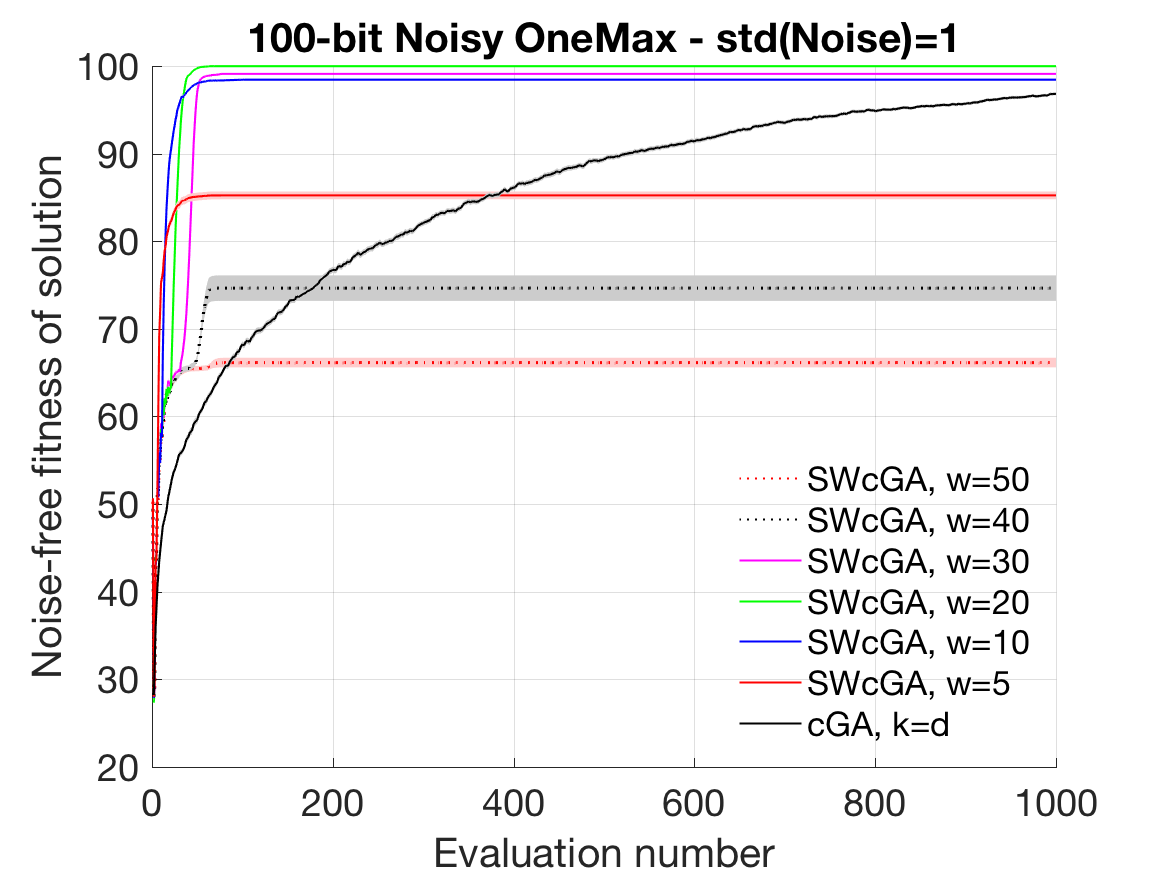
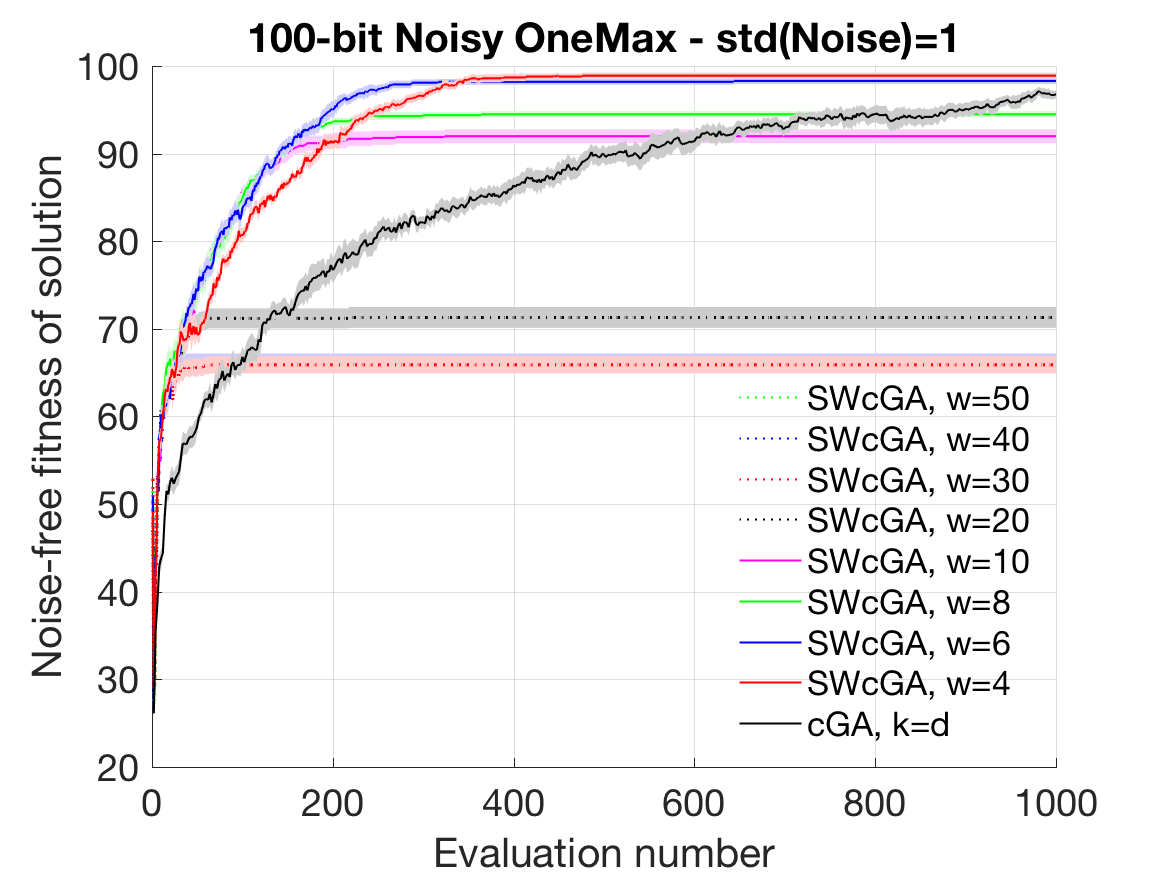
commint res

Changed region(s): [[0.1234, 0.0617, 0.9254, 0.7097], [0.6478, 0.6789, 0.8946, 0.8023], [0.1234, 0.7714, 0.1542, 0.8023]]

diff --git a/cga/CompactGA.m b/cga/CompactGA.m
@@ -15,7 +15,7 @@ while(t <= T-nParent && stop==0)
     for i=1:nParent
         for j=1:d
             if rand < p(j)
-                parents(i,j) = 1;
+                parents(i,j) = 1;                
             end
         end
         fitness(i) = noisyObjFunc(parents(i,:),1);
@@ -24,36 +24,34 @@ while(t <= T-nParent && stop==0)
 %     bestSoFar = parents(I(1),:);
     for i=1:nParent-1
         for j=i+1:nParent
-            if (isinf(fitness(i))==0 && isinf(fitness(j))==0)
-                if fitness(i) > fitness(j) % i wins
-                    for k=1:d
-                        if (parents(i,k) ~= parents(j,k))
-                            if (parents(i,k) == 1)
-                                p(k) = p(k) + 1/K;
-                            else
-                                p(k) = p(k) - 1/K;
-                            end
+            if fitness(i) > fitness(j) % i wins
+                for k=1:d
+                    if (parents(i,k) ~= parents(j,k))
+                        if (parents(i,k) == 1)
+                            p(k) = p(k) + 1/K;
+                        else
+                            p(k) = p(k) - 1/K;
                         end
                     end
-                else % j wins
-                    for k=1:d
-                        if (parents(i,k) ~= parents(j,k))
-                            if (parents(j,k) == 1)
-                                p(k) = p(k) + 1/K;
-                            else
-                                p(k) = p(k) - 1/K;
-                            end
+                end
+            else % j wins
+                for k=1:d
+                    if (parents(i,k) ~= parents(j,k))
+                        if (parents(j,k) == 1)
+                            p(k) = p(k) + 1/K;
+                        else
+                            p(k) = p(k) - 1/K;
                         end
                     end
-                end 
-            end
+                end
+            end 
         end
     end
 %     res = [res objFunc(bestSoFar)];
     sol = zeros(1,d);
     for i=1:d
         if p(i) > 0.5
-            sol(i) =1;
+            sol(i) = 1;
         end
     end
     res = [res objFunc(sol)];

diff --git a/cga/testSWCGANoiseOneMax.m b/cga/testSWCGANoiseOneMax.m
@@ -6,14 +6,17 @@ d=100;
 T=1000;
 nTrials=100;
 
-W=[1 5 10 20 30 40 50];
+W=[1 4 6 8 10 20 30 40 50];
 
+
+K=[1 0.01 0.1 0.5 2 5 10 20 50 100];
+for kidx=length(K):-1:1
+k=K(kidx)*d
 
 figure
 set(gca,'fontsize',18)
 hold on
 X=[1:T];
-k=d;
 strlegend = 'legend(h,{';
 for j=length(W):-1:2
     w = W(j);
@@ -34,15 +37,15 @@ end
 j=1;
 cga=NaN(nTrials,T/2);
 for i=1:nTrials
-    res = CompactGA('OneMax','NoisyOneMax',d,k,2,T);
+    res = CompactGA('OneMax','NoisyOneMax',d,d/2,2,T);
     cga(i,1:length(res)) = res;
     cga(i,length(res)+1:end) = res(end);
 end
 boundedline([1:T/2]*2, mean(cga), std(cga)/sqrt(nTrials), mycolor{j});
 h(length(W)-j+1)=plot([1:T/2]*2, mean(cga), mycolor{j}, 'LineWidth', 1);
-strlegend=sprintf('%s ''cGA, k=d''}, ''Location'', ''SouthEast'')', strlegend);
+strlegend=sprintf('%s ''cGA, k=0.50d''}, ''Location'', ''SouthEast'')', strlegend);
   
-title(sprintf('%d-bit Noisy OneMax - std(Noise)=1', d));
+title(sprintf('%d-bit Noisy OneMax - std(Noise)=1 - k=%.2fd', d,K(kidx)));
 xlabel('Evaluation number');
 ylabel('Noise-free fitness of solution');
 grid on
@@ -51,5 +54,5 @@ eval(strlegend);
 
 legend boxoff  
 
-saveas(gcf, sprintf('res/NoisyOneMax_SWcGA_d%d_T%d_stop.png',d,T));
-% save(sprintf('res/noisyonemax_cGA_d%d_T%d_stop.mat',d,T),'K','nTrials','meanCGA','stdCGA');
+saveas(gcf, sprintf('res/NoisyOneMax_SWcGA_d%d_k%d_T%d_stop.png',d,k,T));
+end

diff --git a/cga/testSWCGAPMax.m b/cga/testSWCGAPMax.m
@@ -6,14 +6,16 @@ d=100;
 T=1000;
 nTrials=100;
 
-W=[1 5 10 20 30 40 50];
+W=[1 4 6 8 10 20 30 40 50];
 
+K=[1 0.01 0.1 0.5 2 5 10 20 50 100];
+for kidx=length(K):-1:1
+k=K(kidx)*d
 
 figure
 set(gca,'fontsize',18)
 hold on
 X=[1:T];
-k=d;
 strlegend = 'legend(h,{';
 for j=length(W):-1:2
     w = W(j);
@@ -34,16 +36,16 @@ end
 j=1;
 cga=NaN(nTrials,T/2);
 for i=1:nTrials
-    res = CompactGA('PMax','SampleGame',d,k,2,T);
+    res = CompactGA('PMax','SampleGame',d,0.5*d,2,T);
     cga(i,1:length(res)) = res;
     cga(i,length(res)+1:end) = res(end);
 end
 boundedline([1:T/2]*2, mean(cga), std(cga)/sqrt(nTrials), mycolor{j});
 h(length(W)-j+1)=plot([1:T/2]*2, mean(cga), mycolor{j}, 'LineWidth', 1);
-strlegend=sprintf('%s ''cGA, k=d''}, ''Location'', ''SouthEast'')', strlegend);
+strlegend=sprintf('%s ''cGA, k=0.50d''}, ''Location'', ''SouthEast'')', strlegend);
 
 
-title(sprintf('%d-bit PMax', d));
+title(sprintf('%d-bit PMax - k=%.2fd', d, K(kidx)));
 xlabel('Evaluation number');
 ylabel('Winning rate');
 grid on
@@ -51,5 +53,5 @@ eval(strlegend);
 legend boxoff  
 axis([0 1000 0.2 1])
 
-saveas(gcf, sprintf('res/PMax_SWcGA_d%d_T%d_stop.png',d,T));
-% save(sprintf('res/noisyonemax_cGA_d%d_T%d_stop.mat',d,T),'K','nTrials','meanCGA','stdCGA');
+saveas(gcf, sprintf('res/PMax_SWcGA_d%d_k%d_T%d_stop.png',d,k,T));
+end

diff --git a/cga/testCGANoiseOneMax.m b/cga/testCGANoiseOneMax.m
@@ -6,8 +6,7 @@ d=100;
 T=1000;
 nTrials=100;
 
-K=[1 2 5 10 20 50 100];
-
+K=[1 0.01 0.1 0.5 2 5 10 20 50 100];
 meanCGA = zeros(length(K),T/2);
 stdCGA = zeros(length(K),T/2);
 
@@ -25,14 +24,12 @@ for j=length(K):-1:1
         cga(i,1:length(res)) = res;
         cga(i,length(res)+1:end) = res(end);
     end
-    meanCGA(j,:)=mean(cga);
-    stdCGA(j,:)=std(cga)/sqrt(nTrials);
-    boundedline(X, meanCGA(j,:), stdCGA(j,:), mycolor{j});
-    h(length(K)-j+1)=plot(X, meanCGA(j,:), mycolor{j}, 'LineWidth', 1);
+    boundedline(X, mean(cga), std(cga)/sqrt(nTrials), mycolor{j});
+    h(length(K)-j+1)=plot(X, mean(cga), mycolor{j}, 'LineWidth', 1);
     if (j==1)
         strlegend=sprintf('%s ''cGA, k=d''}, ''Location'', ''SouthEast'')', strlegend);
     else
-        strlegend=sprintf('%s ''cGA, k=%dd'',', strlegend, K(j));
+        strlegend=sprintf('%s ''cGA, k=%.2fd'',', strlegend, K(j));
     end
 end
 title(sprintf('%d-bit Noisy OneMax - std(Noise)=1', d));

diff --git a/cga/SlidingWindowCompactGA.m b/cga/SlidingWindowCompactGA.m
@@ -9,7 +9,7 @@ function [res]=SlidingWindowCompactGA(objFuncName,NoisyObjFuncName,d,K,w,T)
 w=w+1;
 addpath('../binaryproblems')
 p=ones(1,d)/2;
-fitness = ones(1,w)*(-Inf);
+fitness = ones(1,w)*NaN;
 parents = zeros(w,d);
 noisyObjFunc=str2func(NoisyObjFuncName);
 objFunc=str2func(objFuncName);
@@ -33,6 +33,8 @@ while(t < T && stop==0)
     for j=1:d
         if rand < p(j)
             parents(1,j) = 1;
+        else
+            parents(1,j) = 0;
         end
     end
     fitness(1) = noisyObjFunc(parents(1,:),1);
@@ -41,7 +43,7 @@ while(t < T && stop==0)
 %     idx = find(Y>-Inf,1,'last');
     for i=1:1
         for j=2:w
-            if (isinf(fitness(i))==0 && isinf(fitness(j))==0)
+            if (isnan(fitness(i))==0 && isnan(fitness(j))==0)
                 if fitness(i) > fitness(j) % i wins
                     for k=1:d
                         if (parents(i,k) ~= parents(j,k))

diff --git a/cga/testCGAPMax.m b/cga/testCGAPMax.m
@@ -6,8 +6,7 @@ d=100;
 T=1000;
 nTrials=100;
 
-K=[1 2 5 10 20 50 100];
-
+K=[1 0.01 0.1 0.5 2 5 10 20 50 100];
 figure
 set(gca,'fontsize',18)
 hold on
@@ -26,7 +25,7 @@ for j=length(K):-1:1
     if (j==1)
         strlegend=sprintf('%s ''cGA, k=d''}, ''Location'', ''SouthEast'')', strlegend);
     else
-        strlegend=sprintf('%s ''cGA, k=%dd'',', strlegend, K(j));
+        strlegend=sprintf('%s ''cGA, k=%.2fd'',', strlegend, K(j));
     end
 end
 title(sprintf('%d-bit PMax', d));

diff --git a/binaryproblems/OneMax.m b/binaryproblems/OneMax.m
@@ -1,6 +1,3 @@
-function res=OneMax(x,r)
-if nargin < 2
-    
-end
+function res=OneMax(x)
 res=sum(x);
 end
